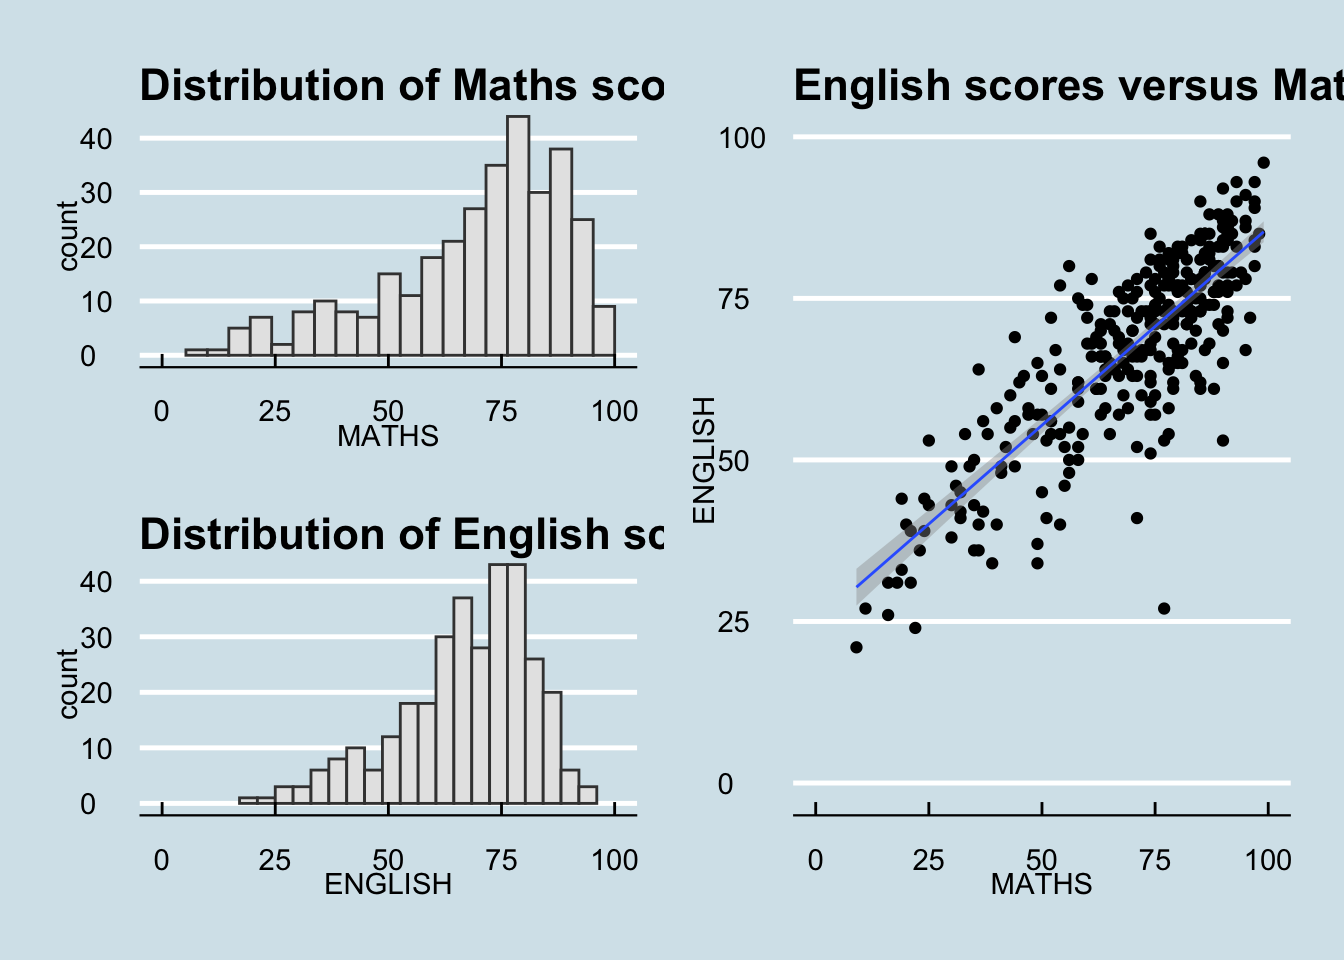
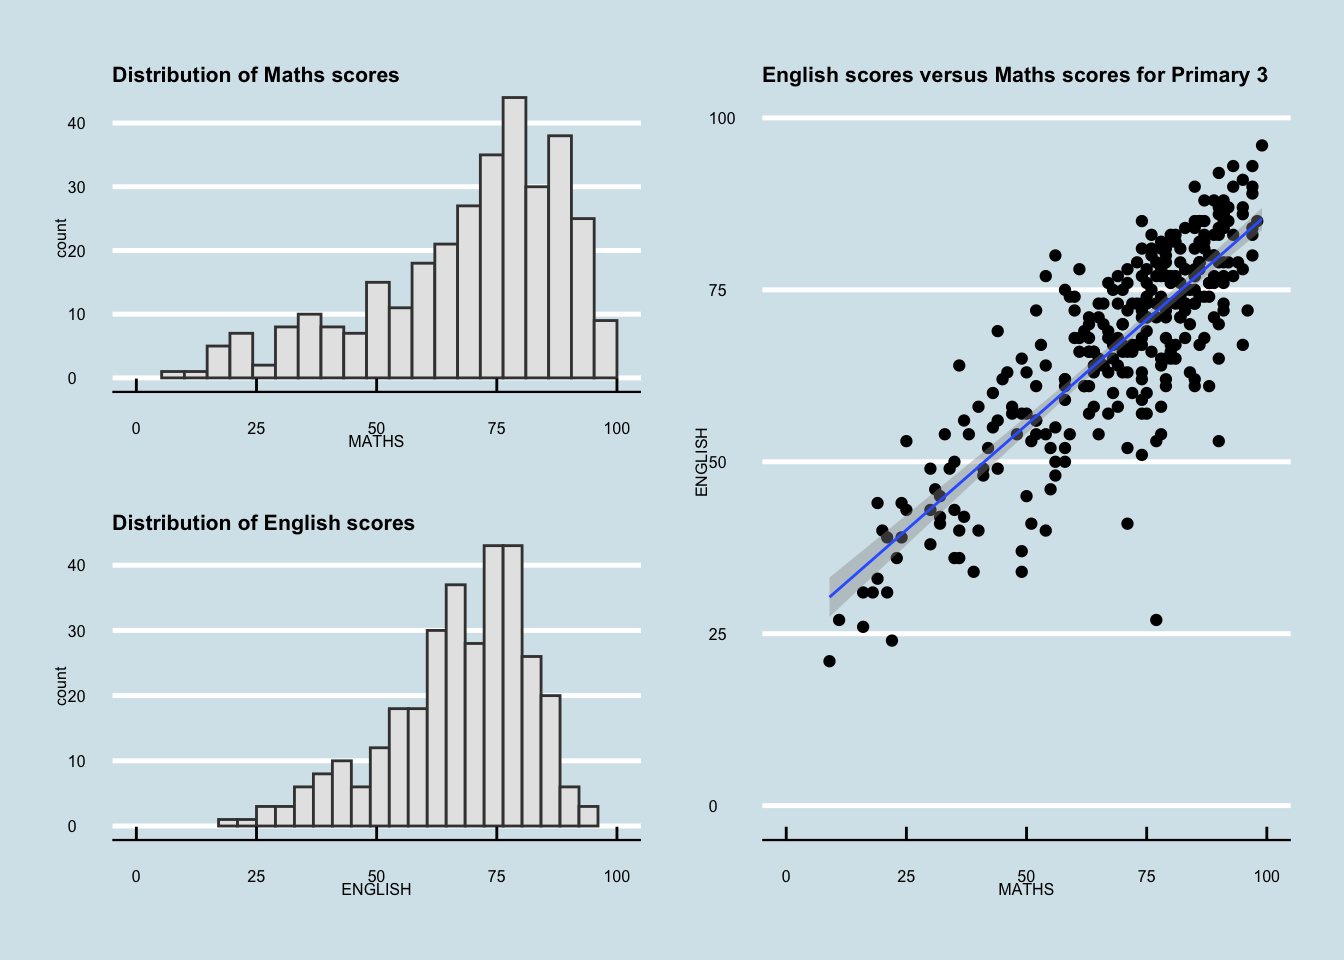
Commit after editing editing font size for hands on 2

diff --git a/_site/Hands-on_Ex/Hands-on_Ex02/Hands-on_Ex02.html b/_site/Hands-on_Ex/Hands-on_Ex02/Hands-on_Ex02.html
@@ -536,7 +536,12 @@ Note
 <p>Figure below is created by combining patchwork and theme_economist() of ggthemes package discussed earlier.</p>
 <div class="cell">
 <div class="sourceCode cell-code" id="cb19"><pre class="sourceCode r code-with-copy"><code class="sourceCode r"><span id="cb19-1"><a href="#cb19-1" aria-hidden="true" tabindex="-1"></a>patchwork <span class="ot">&lt;-</span> (p1 <span class="sc">/</span> p2) <span class="sc">|</span> p3</span>
-<span id="cb19-2"><a href="#cb19-2" aria-hidden="true" tabindex="-1"></a>patchwork <span class="sc">&amp;</span> <span class="fu">theme_economist</span>()</span></code><button title="Copy to Clipboard" class="code-copy-button"><i class="bi"></i></button></pre></div>
+<span id="cb19-2"><a href="#cb19-2" aria-hidden="true" tabindex="-1"></a>patchwork <span class="sc">&amp;</span> <span class="fu">theme_economist</span>() <span class="sc">+</span></span>
+<span id="cb19-3"><a href="#cb19-3" aria-hidden="true" tabindex="-1"></a>  <span class="fu">theme</span>(<span class="at">plot.title =</span> <span class="fu">element_text</span>(<span class="at">size =</span> <span class="dv">8</span>),</span>
+<span id="cb19-4"><a href="#cb19-4" aria-hidden="true" tabindex="-1"></a>          <span class="at">axis.title.y =</span> <span class="fu">element_text</span>(<span class="at">size =</span> <span class="dv">6</span>),</span>
+<span id="cb19-5"><a href="#cb19-5" aria-hidden="true" tabindex="-1"></a>          <span class="at">axis.title.x =</span> <span class="fu">element_text</span>(<span class="at">size =</span> <span class="dv">6</span>),</span>
+<span id="cb19-6"><a href="#cb19-6" aria-hidden="true" tabindex="-1"></a>          <span class="at">axis.text.y =</span> <span class="fu">element_text</span>(<span class="at">size =</span> <span class="dv">6</span>),</span>
+<span id="cb19-7"><a href="#cb19-7" aria-hidden="true" tabindex="-1"></a>          <span class="at">axis.text.x =</span> <span class="fu">element_text</span>(<span class="at">size =</span> <span class="dv">6</span>))</span></code><button title="Copy to Clipboard" class="code-copy-button"><i class="bi"></i></button></pre></div>
 <div class="cell-output-display">
 <p><img src="Hands-on_Ex02_files/figure-html/unnamed-chunk-16-1.png" class="img-fluid" width="672"></p>
 </div>
